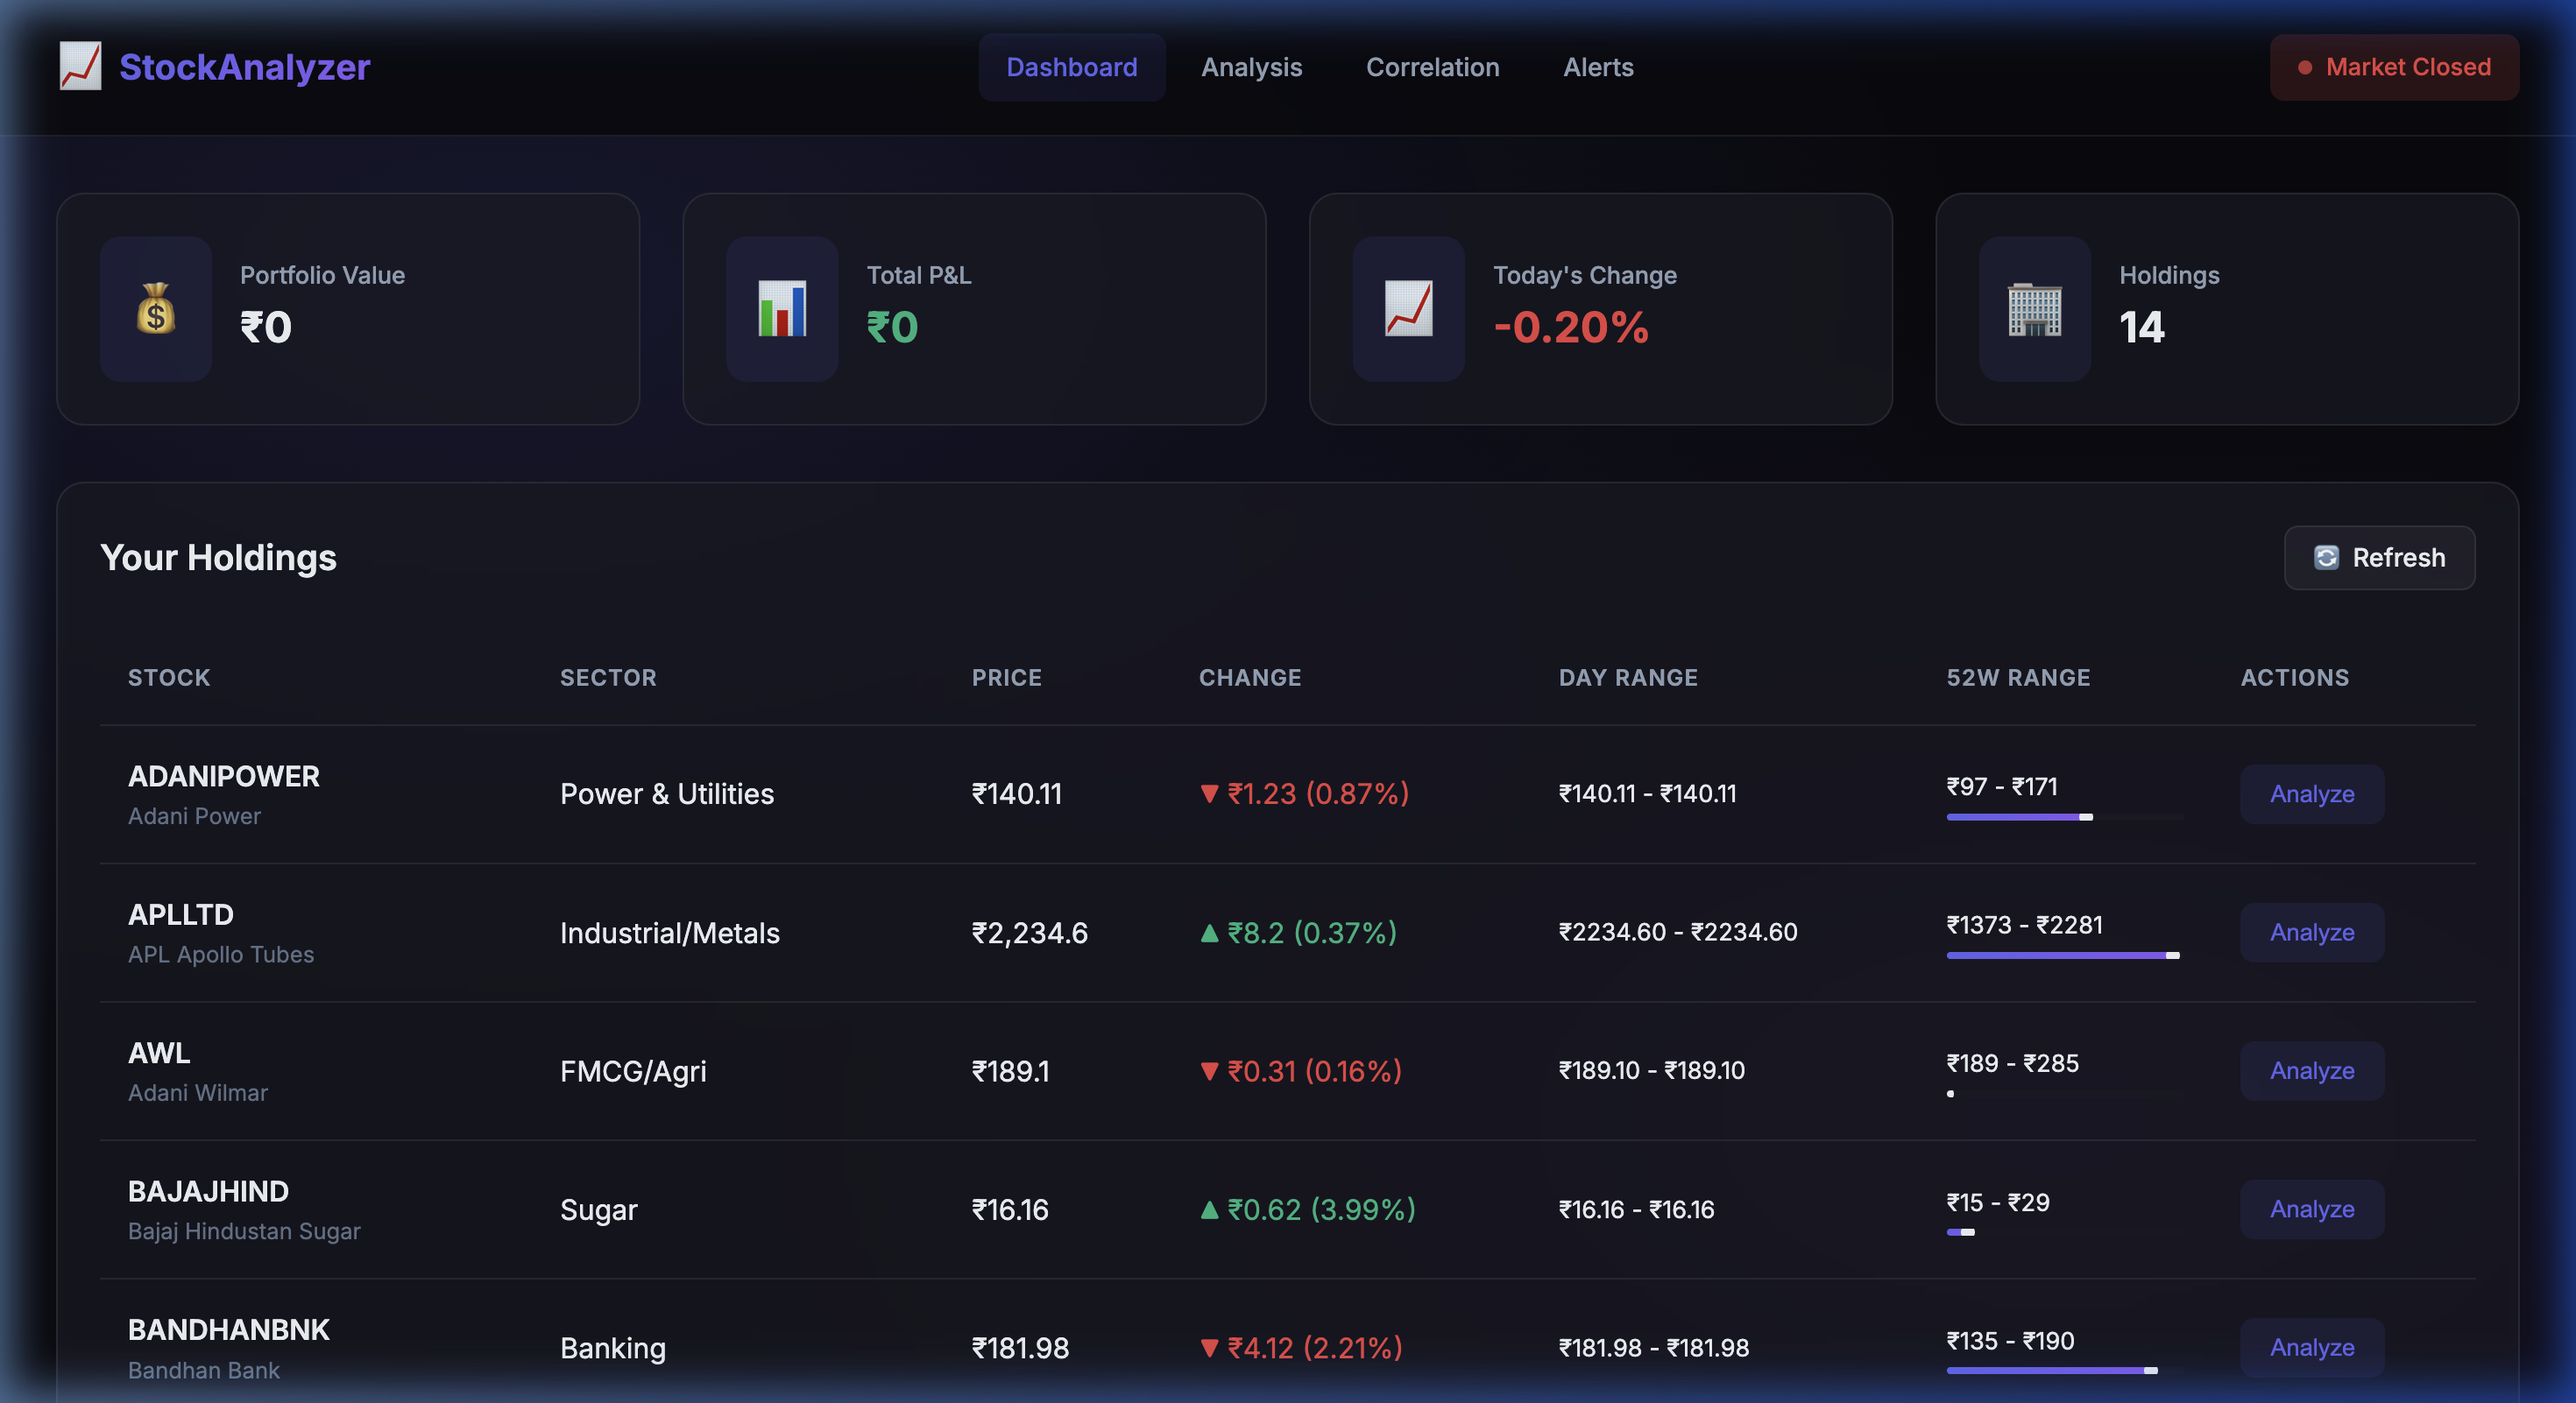
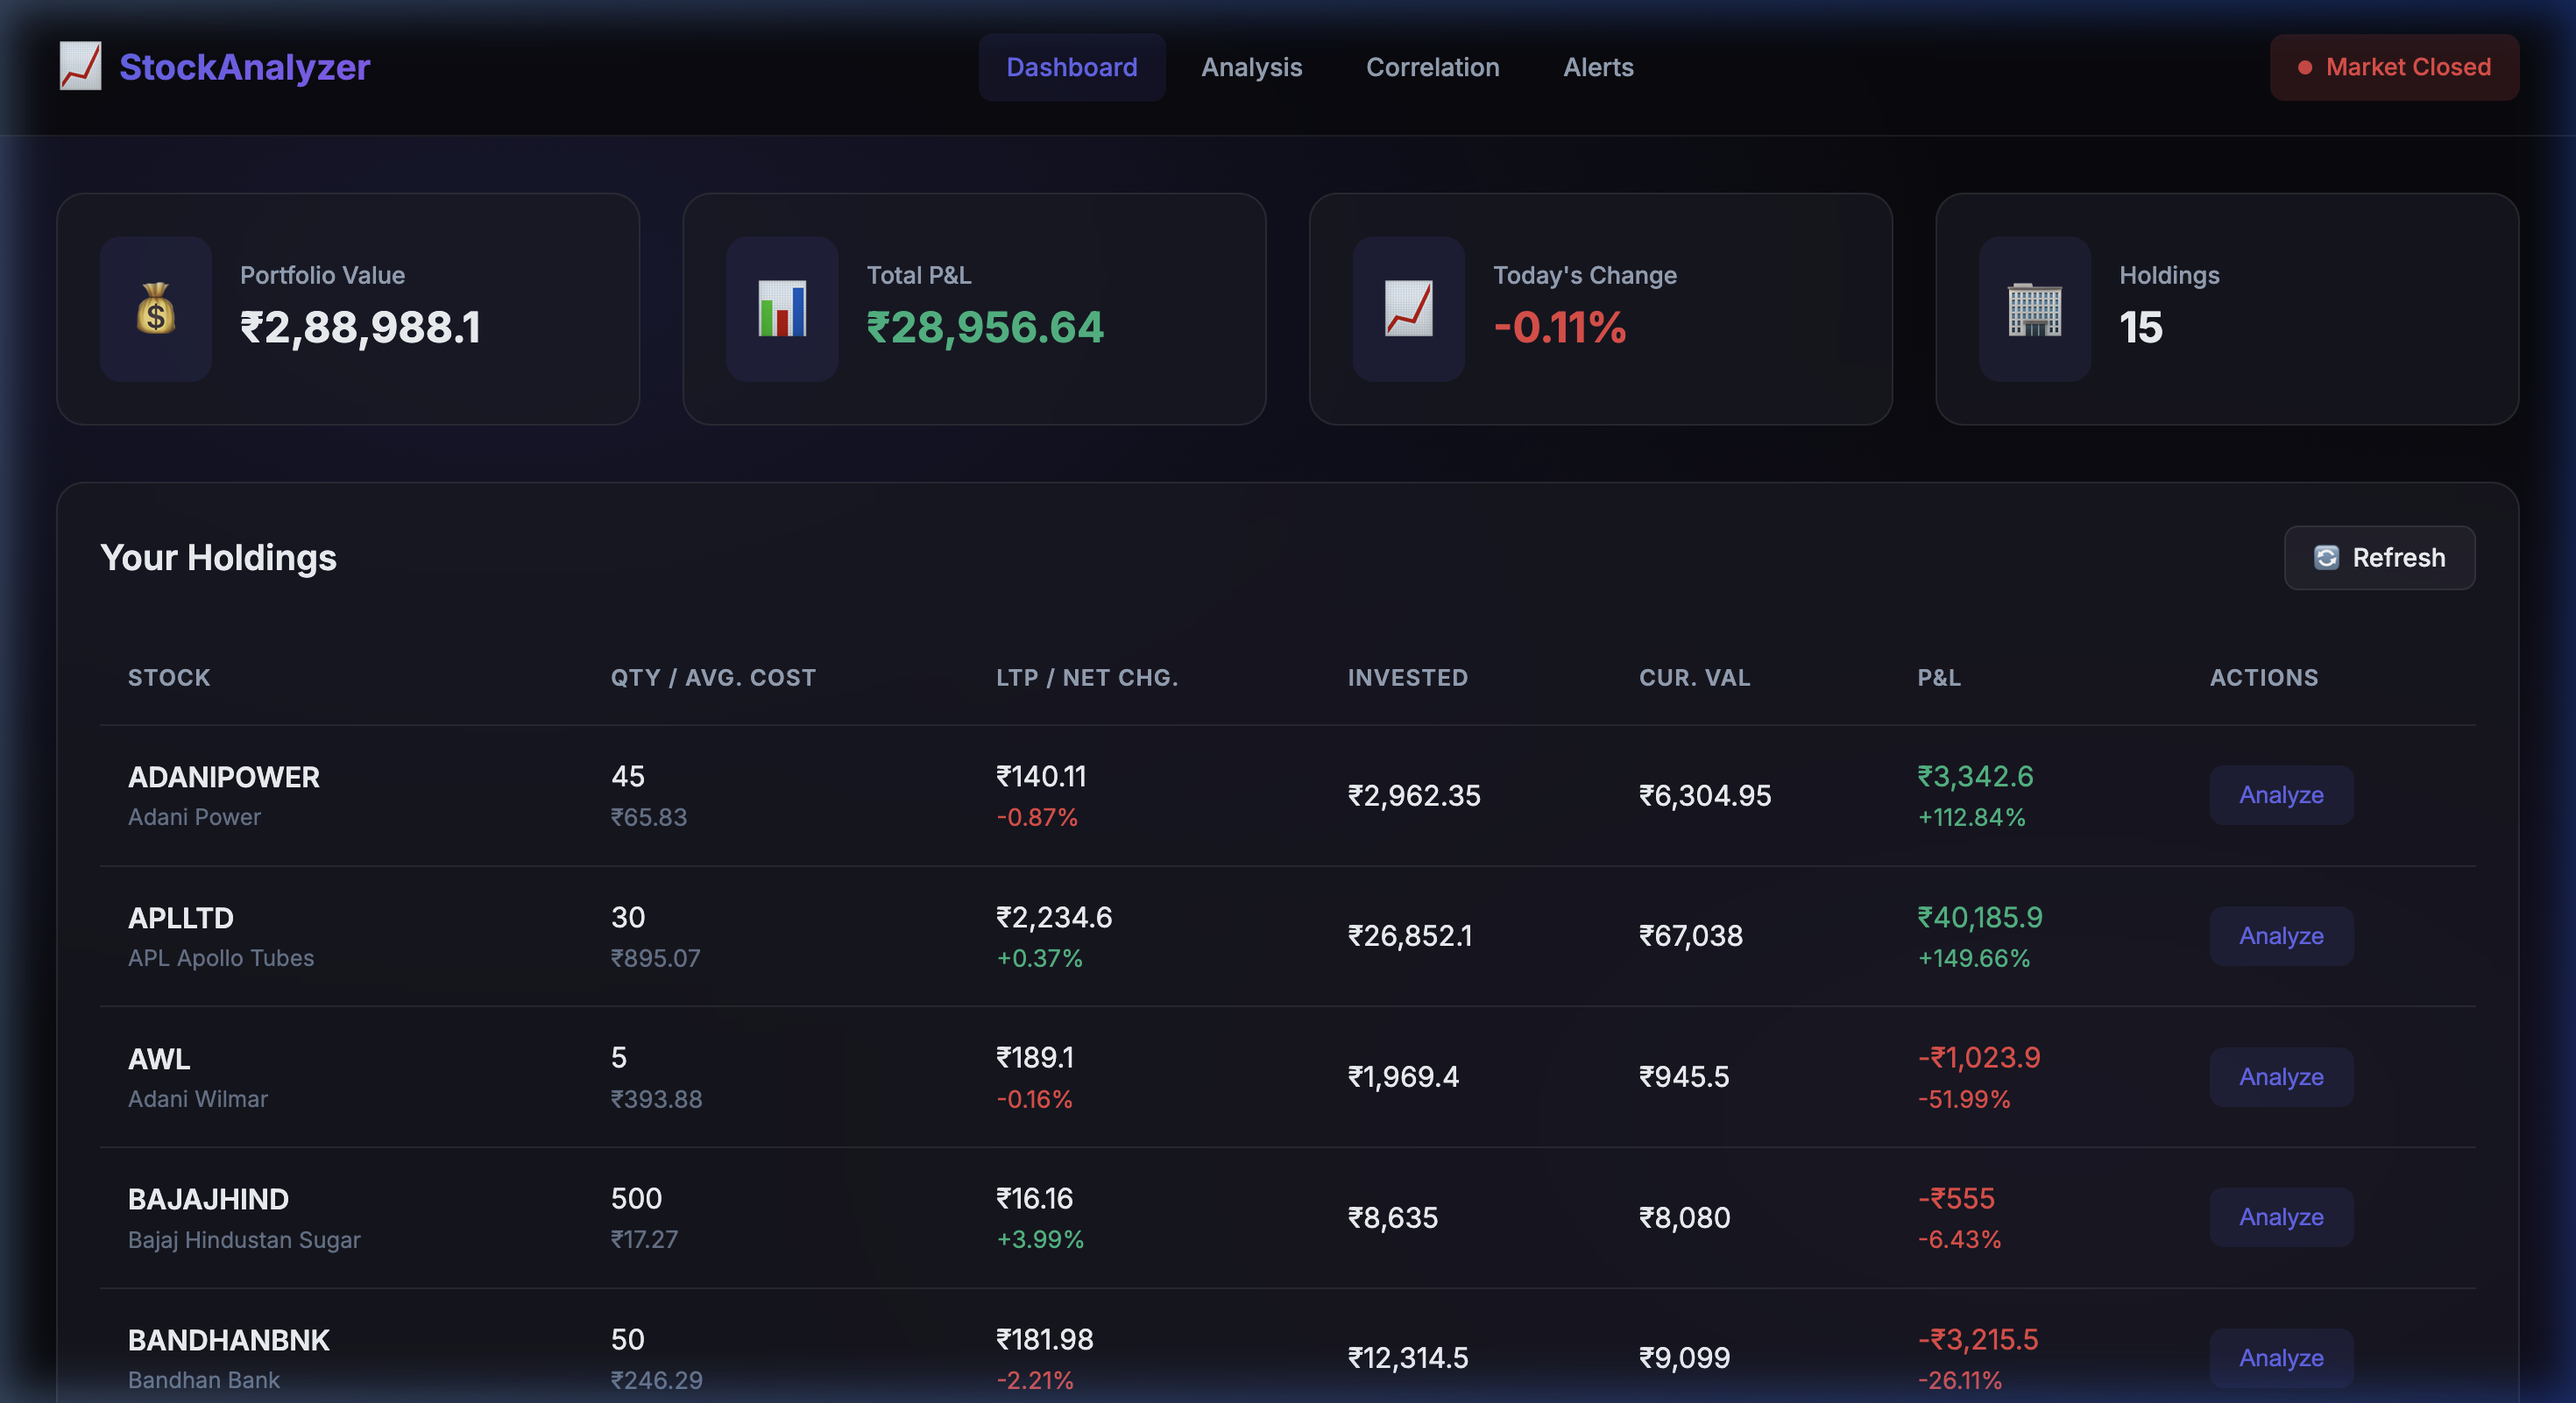
feat: integrate true P&L based on user holdings

diff --git a/src/config/portfolio.js b/src/config/portfolio.js
@@ -10,8 +10,8 @@ export const portfolio = [
     displaySymbol: 'ADANIPOWER',
     exchange: 'NSE',
     sector: 'Power & Utilities',
-    quantity: 0, // Update with your holdings
-    avgPrice: 0  // Update with your average purchase price
+    quantity: 45,
+    avgPrice: 65.83
   },
   {
     symbol: 'APLAPOLLO.NS',
@@ -19,8 +19,8 @@ export const portfolio = [
     displaySymbol: 'APLLTD',
     exchange: 'NSE',
     sector: 'Industrial/Metals',
-    quantity: 0,
-    avgPrice: 0
+    quantity: 30,
+    avgPrice: 895.07
   },
   {
     symbol: 'AWL.NS',
@@ -28,8 +28,8 @@ export const portfolio = [
     displaySymbol: 'AWL',
     exchange: 'NSE',
     sector: 'FMCG/Agri',
-    quantity: 0,
-    avgPrice: 0
+    quantity: 5,
+    avgPrice: 393.88
   },
   {
     symbol: 'BAJAJHIND.NS',
@@ -37,8 +37,8 @@ export const portfolio = [
     displaySymbol: 'BAJAJHIND',
     exchange: 'NSE',
     sector: 'Sugar',
-    quantity: 0,
-    avgPrice: 0
+    quantity: 500,
+    avgPrice: 17.27
   },
   {
     symbol: 'BANDHANBNK.NS',
@@ -46,8 +46,8 @@ export const portfolio = [
     displaySymbol: 'BANDHANBNK',
     exchange: 'NSE',
     sector: 'Banking',
-    quantity: 0,
-    avgPrice: 0
+    quantity: 50,
+    avgPrice: 246.29
   },
   {
     symbol: 'ZOMATO.NS',
@@ -55,8 +55,8 @@ export const portfolio = [
     displaySymbol: 'ETERNAL',
     exchange: 'NSE',
     sector: 'Tech/Food Delivery',
-    quantity: 0,
-    avgPrice: 0
+    quantity: 9,
+    avgPrice: 129.37
   },
   {
     symbol: 'INFY.NS',
@@ -64,8 +64,8 @@ export const portfolio = [
     displaySymbol: 'INFY',
     exchange: 'NSE',
     sector: 'IT Services',
-    quantity: 0,
-    avgPrice: 0
+    quantity: 3,
+    avgPrice: 1300.00
   },
   {
     symbol: 'JIOFIN.NS',
@@ -73,8 +73,8 @@ export const portfolio = [
     displaySymbol: 'JIOFIN',
     exchange: 'NSE',
     sector: 'Financial Services',
-    quantity: 0,
-    avgPrice: 0
+    quantity: 52,
+    avgPrice: 252.60
   },
   {
     symbol: 'REPCOHOME.NS',
@@ -82,8 +82,8 @@ export const portfolio = [
     displaySymbol: 'REPCOHOME',
     exchange: 'NSE',
     sector: 'Housing Finance',
-    quantity: 0,
-    avgPrice: 0
+    quantity: 80,
+    avgPrice: 471.18
   },
   {
     symbol: 'TANLA.NS',
@@ -91,8 +91,8 @@ export const portfolio = [
     displaySymbol: 'TANLA',
     exchange: 'NSE',
     sector: 'Telecom/CPaaS',
-    quantity: 0,
-    avgPrice: 0
+    quantity: 26,
+    avgPrice: 948.20
   },
   {
     symbol: 'TATAELXSI.NS',
@@ -100,8 +100,8 @@ export const portfolio = [
     displaySymbol: 'TATAELXSI',
     exchange: 'NSE',
     sector: 'IT/Design',
-    quantity: 0,
-    avgPrice: 0
+    quantity: 14,
+    avgPrice: 7196.65
   },
   {
     symbol: 'TATAPOWER.NS',
@@ -109,8 +109,8 @@ export const portfolio = [
     displaySymbol: 'TATAPOWER',
     exchange: 'NSE',
     sector: 'Power & Utilities',
-    quantity: 0,
-    avgPrice: 0
+    quantity: 7,
+    avgPrice: 218.79
   },
   {
     symbol: 'TATASTEEL.NS',
@@ -118,8 +118,8 @@ export const portfolio = [
     displaySymbol: 'TATASTEEL',
     exchange: 'NSE',
     sector: 'Steel/Metals',
-    quantity: 0,
-    avgPrice: 0
+    quantity: 200,
+    avgPrice: 114.14
   },
   {
     symbol: 'TIINDIA.NS',
@@ -127,8 +127,8 @@ export const portfolio = [
     displaySymbol: 'TMCV',
     exchange: 'NSE',
     sector: 'Auto Components',
-    quantity: 0,
-    avgPrice: 0
+    quantity: 5,
+    avgPrice: 102.07
   },
   {
     symbol: 'TIINDIA.NS',
@@ -136,8 +136,8 @@ export const portfolio = [
     displaySymbol: 'TMPV',
     exchange: 'NSE',
     sector: 'Auto Components',
-    quantity: 0,
-    avgPrice: 0
+    quantity: 5,
+    avgPrice: 225.60
   }
 ];
 

diff --git a/public/js/app.js b/public/js/app.js
@@ -107,25 +107,24 @@ function renderPortfolio(data) {
           <span class="stock-full-name">${stock.name}</span>
         </div>
       </td>
-      <td>${stock.sector}</td>
-      <td>${formatCurrency(stock.price)}</td>
       <td>
-        <div class="price-change ${stock.changePercent >= 0 ? 'change-positive' : 'change-negative'}">
-          ${stock.changePercent >= 0 ? '▲' : '▼'}
-          ${formatCurrency(Math.abs(stock.change))}
-          (${Math.abs(stock.changePercent).toFixed(2)}%)
-        </div>
+        <div>${stock.quantity}</div>
+        <div style="font-size: 0.85rem; color: var(--text-muted);">${formatCurrency(stock.avgPrice)}</div>
       </td>
       <td>
-        <div class="price-range">
-          <span>₹${stock.dayLow?.toFixed(2)} - ₹${stock.dayHigh?.toFixed(2)}</span>
-          ${renderRangeBar(stock.price, stock.dayLow, stock.dayHigh)}
+        <div>${formatCurrency(stock.price)}</div>
+        <div style="font-size: 0.85rem;" class="${stock.changePercent >= 0 ? 'change-positive' : 'change-negative'}">
+          ${stock.changePercent >= 0 ? '+' : ''}${stock.changePercent.toFixed(2)}%
         </div>
       </td>
+      <td>${formatCurrency(stock.invested)}</td>
+      <td>${formatCurrency(stock.currentValue)}</td>
       <td>
-        <div class="price-range">
-          <span>₹${stock.fiftyTwoWeekLow?.toFixed(0)} - ₹${stock.fiftyTwoWeekHigh?.toFixed(0)}</span>
-          ${renderRangeBar(stock.price, stock.fiftyTwoWeekLow, stock.fiftyTwoWeekHigh)}
+        <div class="price-change ${stock.profitLoss >= 0 ? 'change-positive' : 'change-negative'}">
+          ${formatCurrency(stock.profitLoss)}
+        </div>
+        <div style="font-size: 0.85rem;" class="${stock.profitLossPercent >= 0 ? 'change-positive' : 'change-negative'}">
+           ${stock.profitLossPercent >= 0 ? '+' : ''}${stock.profitLossPercent.toFixed(2)}%
         </div>
       </td>
       <td>

diff --git a/src/services/stockData.js b/src/services/stockData.js
@@ -83,16 +83,19 @@ export async function getAllQuotes() {
     for (const symbol of batch) {
       const quote = await getQuote(symbol);
       if (quote) {
-        // Attach portfolio info
-        const stockInfo = portfolio.find(s => s.symbol === symbol);
-        quotes.push({
-          ...quote,
-          displaySymbol: stockInfo?.displaySymbol,
-          name: stockInfo?.name,
-          sector: stockInfo?.sector,
-          quantity: stockInfo?.quantity || 0,
-          avgPrice: stockInfo?.avgPrice || 0
-        });
+        // Attach to all portfolio items that match this symbol (e.g. TMCV and TMPV both track TIINDIA.NS)
+        const matchingItems = portfolio.filter(s => s.symbol === symbol);
+
+        for (const stockInfo of matchingItems) {
+          quotes.push({
+            ...quote,
+            displaySymbol: stockInfo.displaySymbol,
+            name: stockInfo.name,
+            sector: stockInfo.sector,
+            quantity: stockInfo.quantity || 0,
+            avgPrice: stockInfo.avgPrice || 0
+          });
+        }
       }
       await delay(settings.api.requestDelayMs);
     }

diff --git a/public/index.html b/public/index.html
@@ -95,11 +95,11 @@
               <thead>
                 <tr>
                   <th>Stock</th>
-                  <th>Sector</th>
-                  <th>Price</th>
-                  <th>Change</th>
-                  <th>Day Range</th>
-                  <th>52W Range</th>
+                  <th>Qty / Avg. cost</th>
+                  <th>LTP / Net chg.</th>
+                  <th>Invested</th>
+                  <th>Cur. val</th>
+                  <th>P&L</th>
                   <th>Actions</th>
                 </tr>
               </thead>
